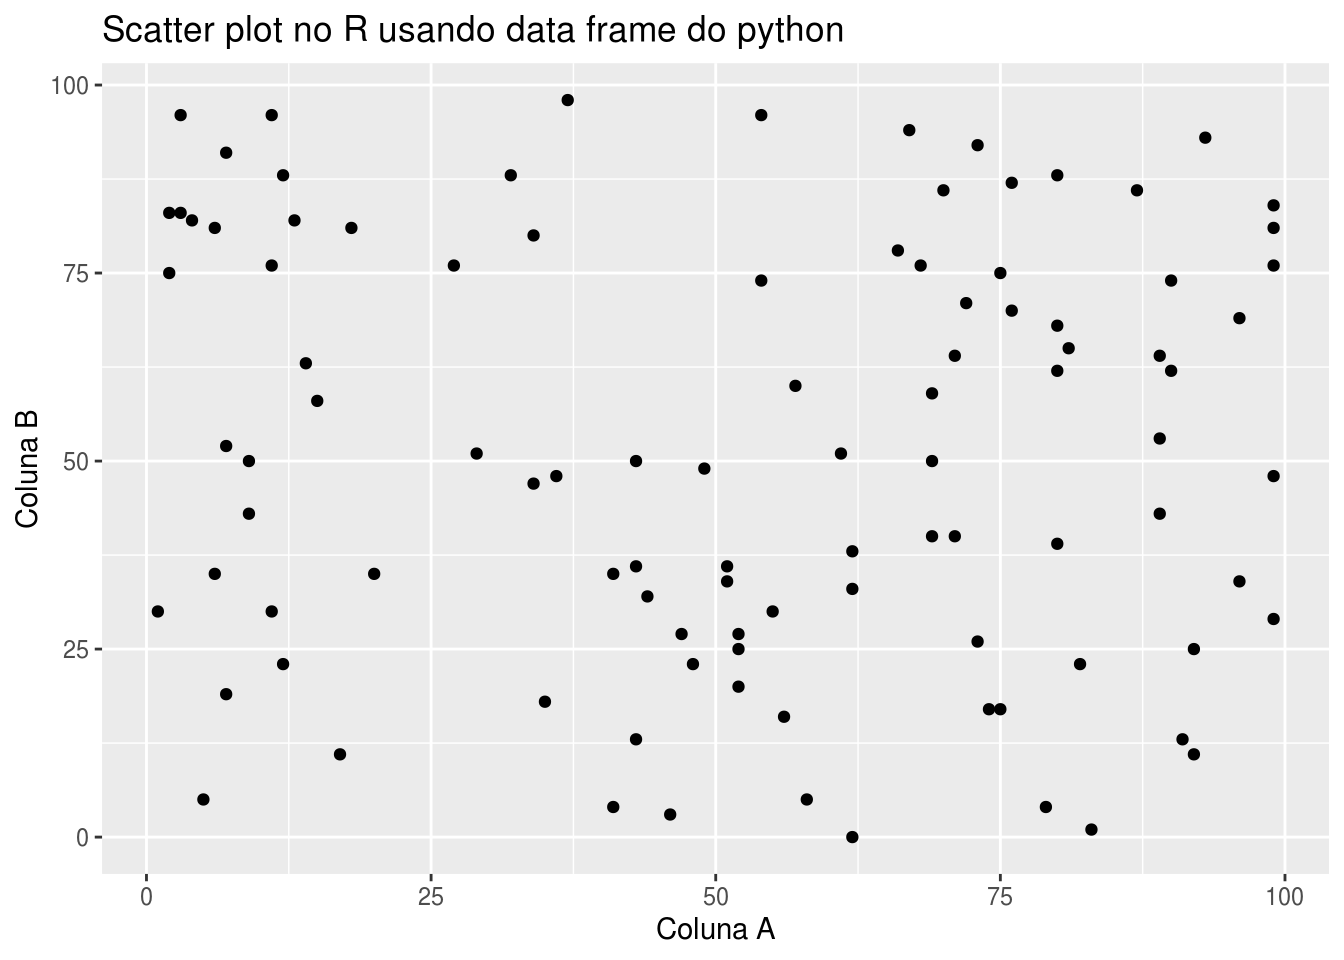
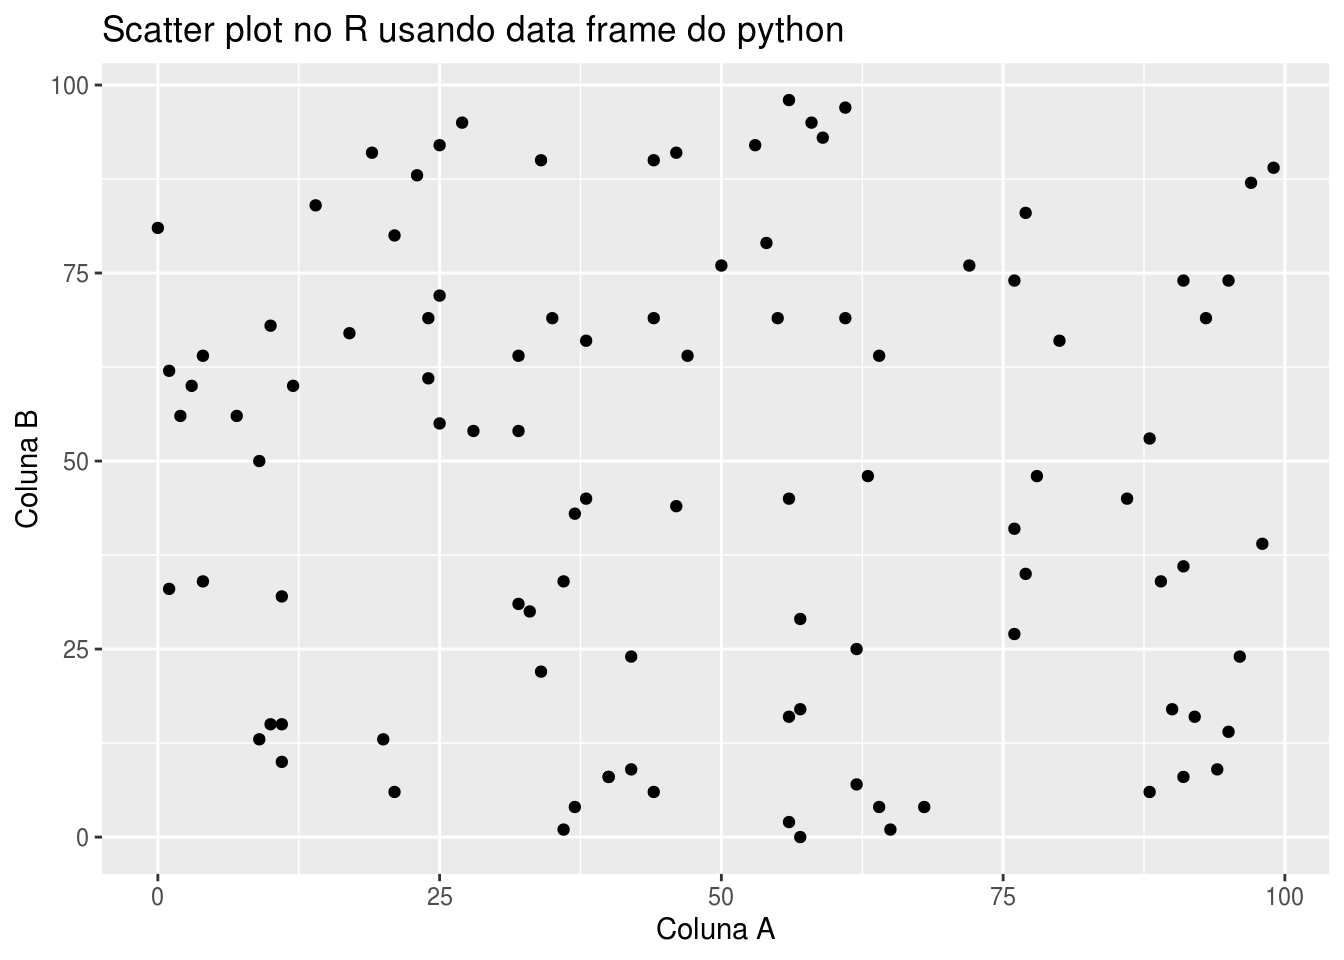
update post python

diff --git a/content/post/2019-12-23-testando-python-no-rmarkdown.html b/content/post/2019-12-23-testando-python-no-rmarkdown.html
@@ -16,12 +16,11 @@ topics: []
 
 
 
-<p>Finalmente consegui rodar o python dentro do RMarkdown no RStudio! Minhas tentativas anteriores falharam miseravalmente. Eu até conseguia usar a biblioteca <code>pandas</code> do python, mas encontrei diversos problemas para instalar novas bibliotecas. Essa guerra durou meses!</p>
-<p>Dias atrás a galera do RStudio lançou uma nova versão do <code>{reticulate}</code> (pacote responsável pela interface do python dentro do R), que veio acompanhada de um post no blog deles (veja o post <a href="https://blog.rstudio.com/2019/12/20/reticulate-1-14/">aqui</a>). Foi através do post deles que descobri a existência do pacote <code>{rminiconda}</code>! Esse pacote resolveu todos os problemas e é justamente isso que gostaria de registrar aqui nesse post.</p>
+<p>Dias atrás a galera do RStudio lançou uma nova versão do <code>{reticulate}</code> (pacote responsável pela interface do python dentro do R), que veio acompanhada de um post no blog deles (veja o post <a href="https://blog.rstudio.com/2019/12/20/reticulate-1-14/">aqui</a>). Foi através do post deles que descobri a existência do pacote <code>{rminiconda}</code>! Esse pacote resolve problemas de compatibilidade de versões do python e é justamente isso que gostaria de registrar aqui nesse post.</p>
 <div id="por-que-python" class="section level1">
 <h1>Por que python?</h1>
 <p>A popularidade de python tem crescido nos últimos, puxado especialmente pelas bibliotecas de data science (digo data science de uma maneira geral, por exemplo, manipulação e análises de dados, entre outros). Veja <a href="https://octoverse.github.com/">aqui</a> e <a href="https://insights.stackoverflow.com/survey/2019#technology">aqui</a> o crescimento do python nos últimos anos. Se você tem interesse nessa área, vale a pena aprender python. Vale lembrar que jornalistas também estão usando <a href="https://www.nexojornal.com.br/entrevista/2019/10/18/Como-o-uso-de-dados-est%C3%A1-mudando-o-jornalismo">análise de dados para embasar suas apurações</a>.</p>
-<p>Uso o R diariamente (inclusive para escrever post para este blog), mas algumas soluções analíticas ou mesmo de visualização só estão disponíveis em python. Por que eu ficaria preso à uma linguagem se existe a solução em outra? Instalar e usar o python não é uma tarefa difícil (especialmente no Linux). Porém, usar as duas linguagens ao mesmo tempo sempre foi uma barreria pra mim. Existem soluções para isso no <a href="https://stackoverflow.com/questions/39008069/r-and-python-in-one-jupyter-notebook">Jupyter Notebook</a>, mas eu gostaria de usar isso no RMarkdown. Ter as duas linguagens rodando no RMarkdown dentro do RStudio seria o melhor dos dois mundos.</p>
+<p>Uso o R diariamente, mas algumas soluções analíticas ou mesmo de visualização só estão disponíveis em python. Por que eu ficaria preso à uma linguagem se existe a solução em outra? Instalar e usar o python não é uma tarefa difícil (especialmente no Linux). Porém, usar as duas linguagens ao mesmo tempo sempre foi uma barreria pra mim. Existem soluções no <a href="https://stackoverflow.com/questions/39008069/r-and-python-in-one-jupyter-notebook">Jupyter Notebook</a>, mas eu gostaria de usar isso no RMarkdown. Ter as duas linguagens rodando no RMarkdown dentro do RStudio seria o melhor dos dois mundos.</p>
 <p>Vamos ver como isso funciona.</p>
 </div>
 <div id="instalação-das-dependências" class="section level1">
@@ -129,11 +128,11 @@ import matplotlib.pyplot as plt</code></pre>
 <p>Checando o data frame.</p>
 <pre class="python"><code>df.head()</code></pre>
 <pre><code>##     A   B   C   D
-## 0  69  40  17  63
-## 1  17  11  59  77
-## 2  73  26  80  38
-## 3  72  71  70  19
-## 4  13  82  44   0</code></pre>
+## 0  95  14  76  20
+## 1   4  64  14  91
+## 2  11  10  88  58
+## 3  24  61  80  69
+## 4  86  45  20  83</code></pre>
 <p>Plotando um scatter plot.</p>
 <pre class="python"><code>fig = plt.figure()
 plt.scatter(df[&#39;A&#39;], df[&#39;B&#39;])
@@ -152,12 +151,12 @@ plt.show()</code></pre>
 <p>Checando o data frame no R.</p>
 <pre class="r"><code>head(r_df)</code></pre>
 <pre><code>##    A  B  C  D
-## 1 69 40 17 63
-## 2 17 11 59 77
-## 3 73 26 80 38
-## 4 72 71 70 19
-## 5 13 82 44  0
-## 6 71 40 87 29</code></pre>
+## 1 95 14 76 20
+## 2  4 64 14 91
+## 3 11 10 88 58
+## 4 24 61 80 69
+## 5 86 45 20 83
+## 6 40  8 40 79</code></pre>
 <p>Plotando.</p>
 <pre class="r"><code>r_df %&gt;% 
   ggplot(aes(x = A, y = B)) +
